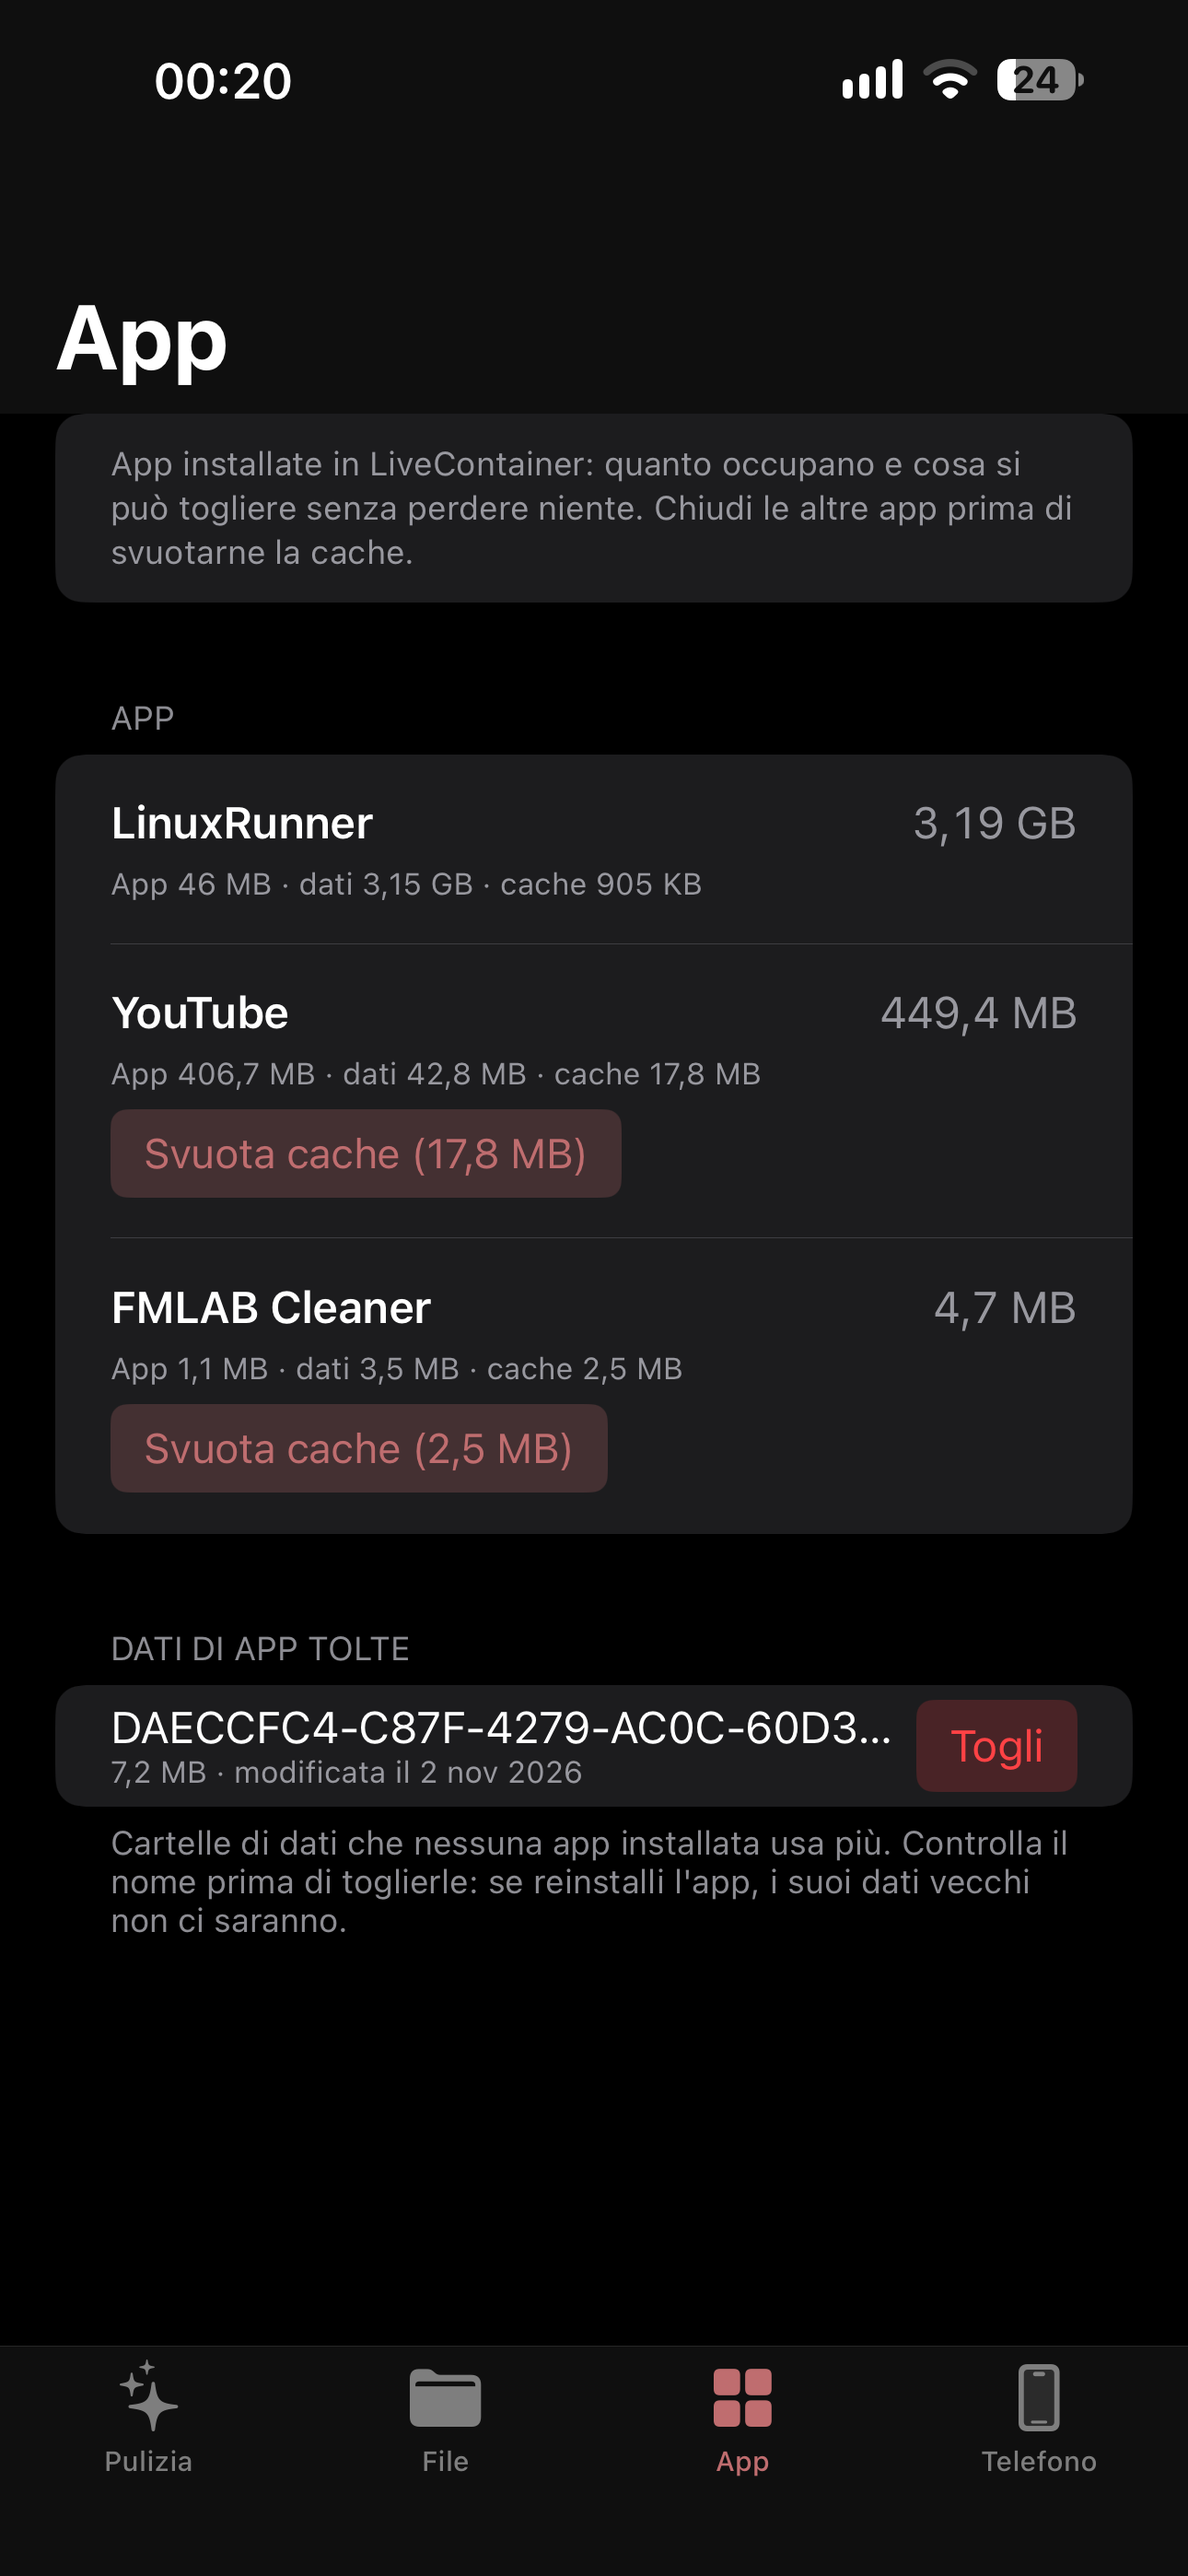
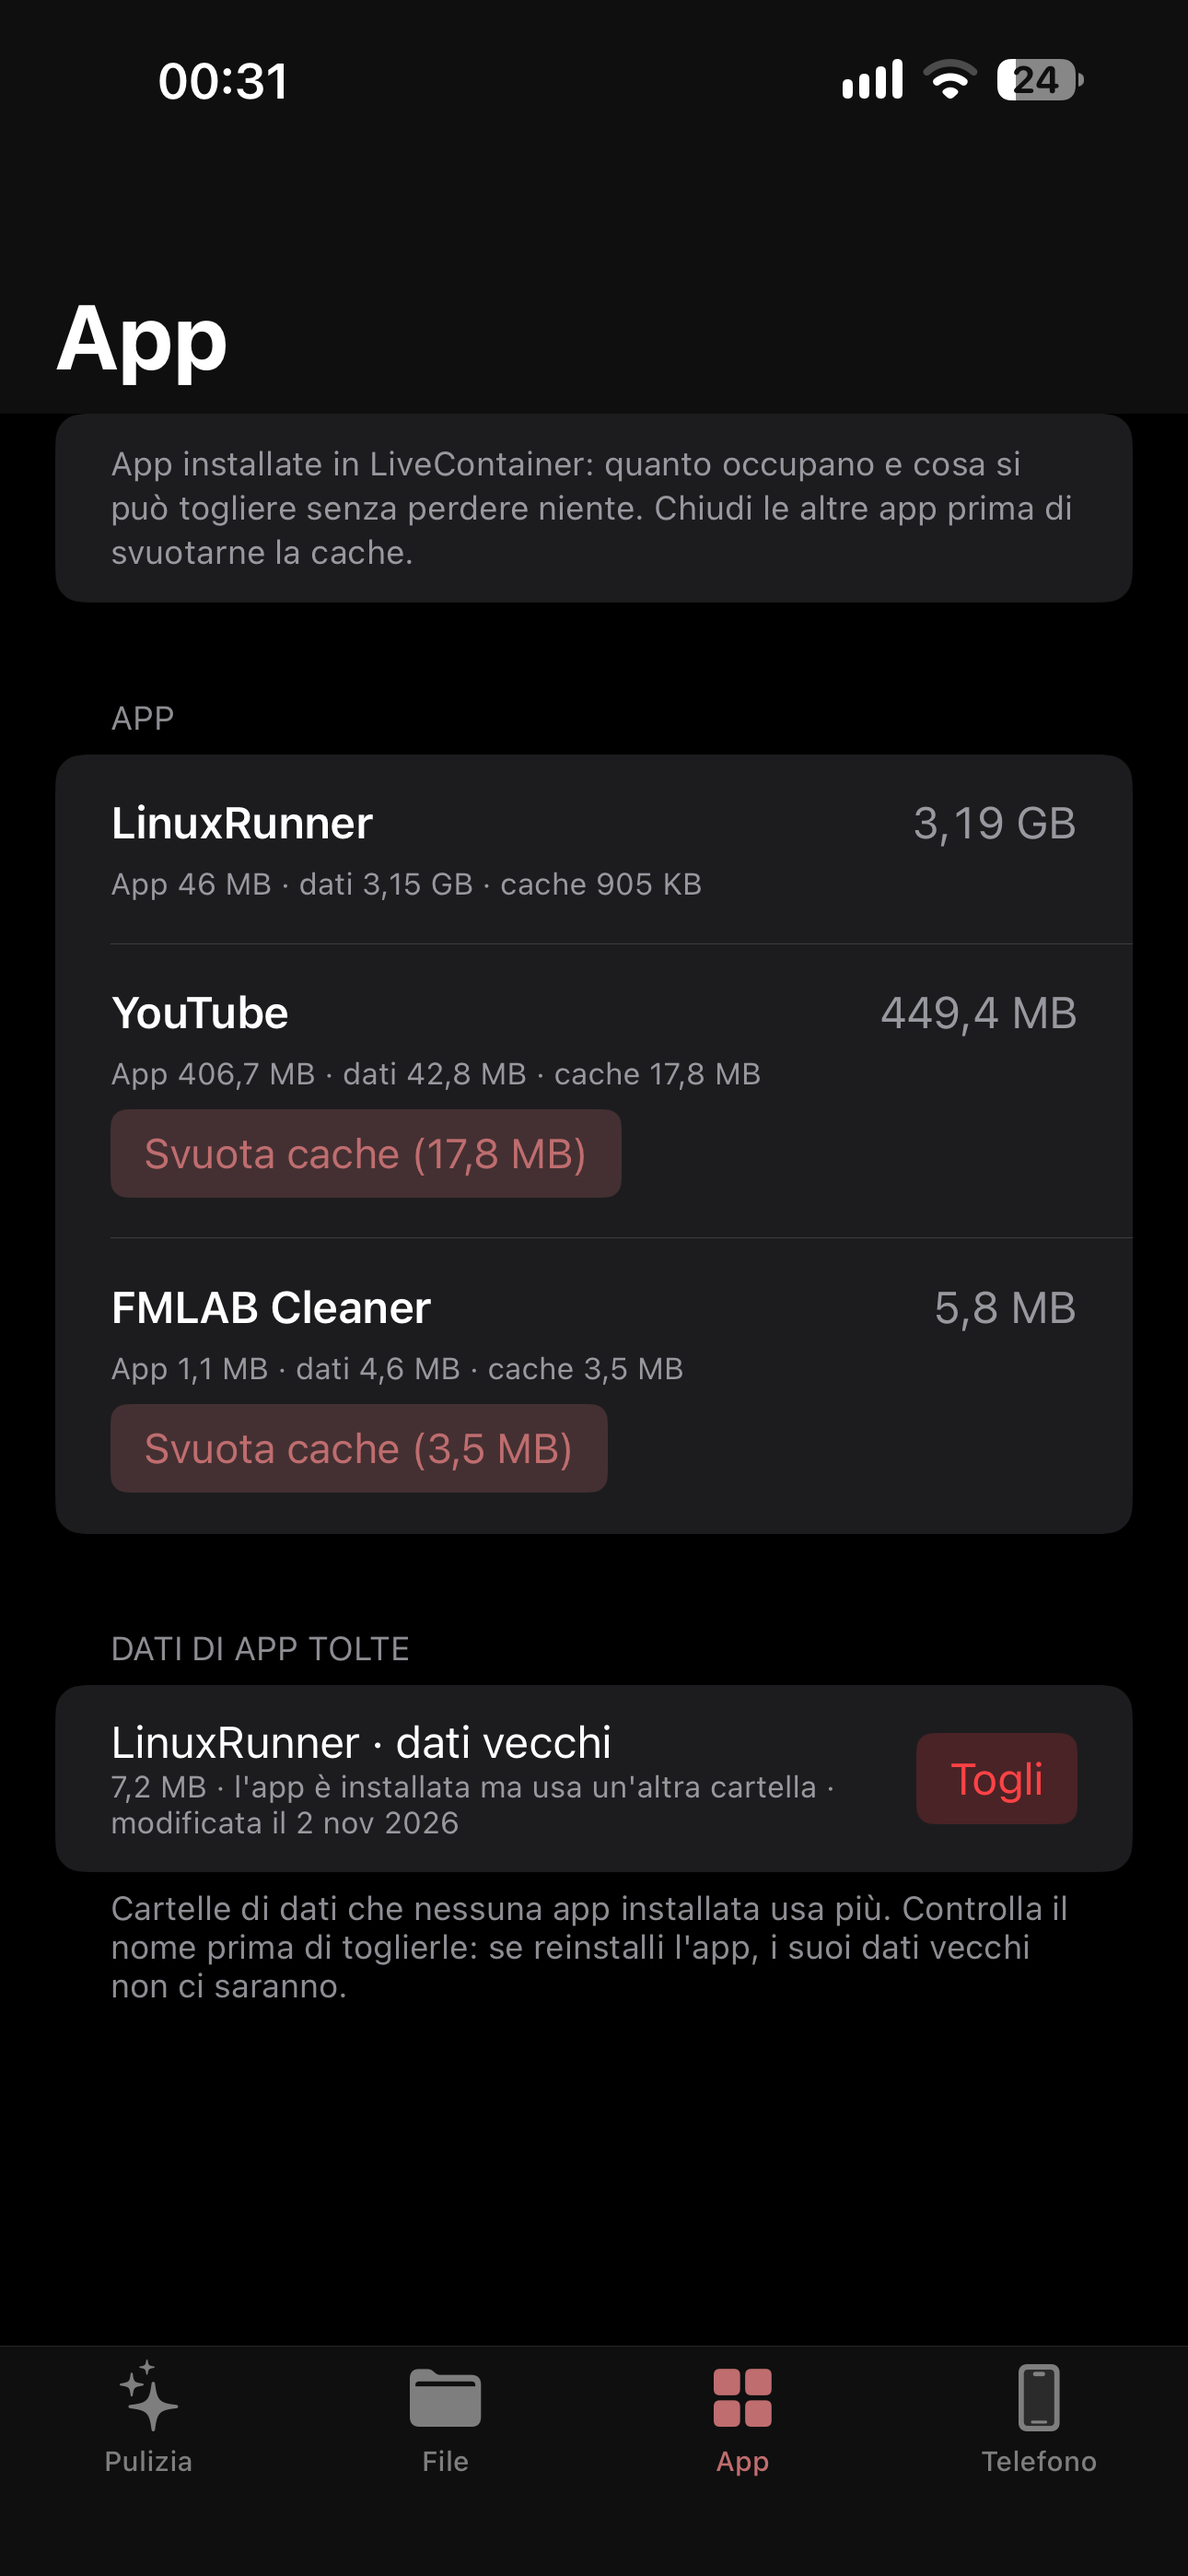
Schermate della 1.8.5 (scheda App con nomi veri) [skip ci]
Claude-Session: https://claude.ai/code/session_01G42q2Z4XHv6LnjWvVethDh

diff --git a/CHANGELOG.md b/CHANGELOG.md
@@ -1,6 +1,8 @@
 # Changelog — FMLAB Cleaner
 
 ## 1.8.5
+*Provata sull'iPhone: la cartella orfana ora si legge "LinuxRunner · dati vecchi".*
+
 - **Scheda App → "Dati di app tolte" con nomi veri**: al posto del codice tagliato ("DAECCFC4-C87F-…") si vede
   l'app a cui appartenevano i dati (es. "YouTube"), letta da LiveContainer o dalle impostazioni dell'app, con
   l'identificativo sotto. Se l'app è ancora installata ma usa un'altra cartella, lo dice ("YouTube · dati vecchi").
